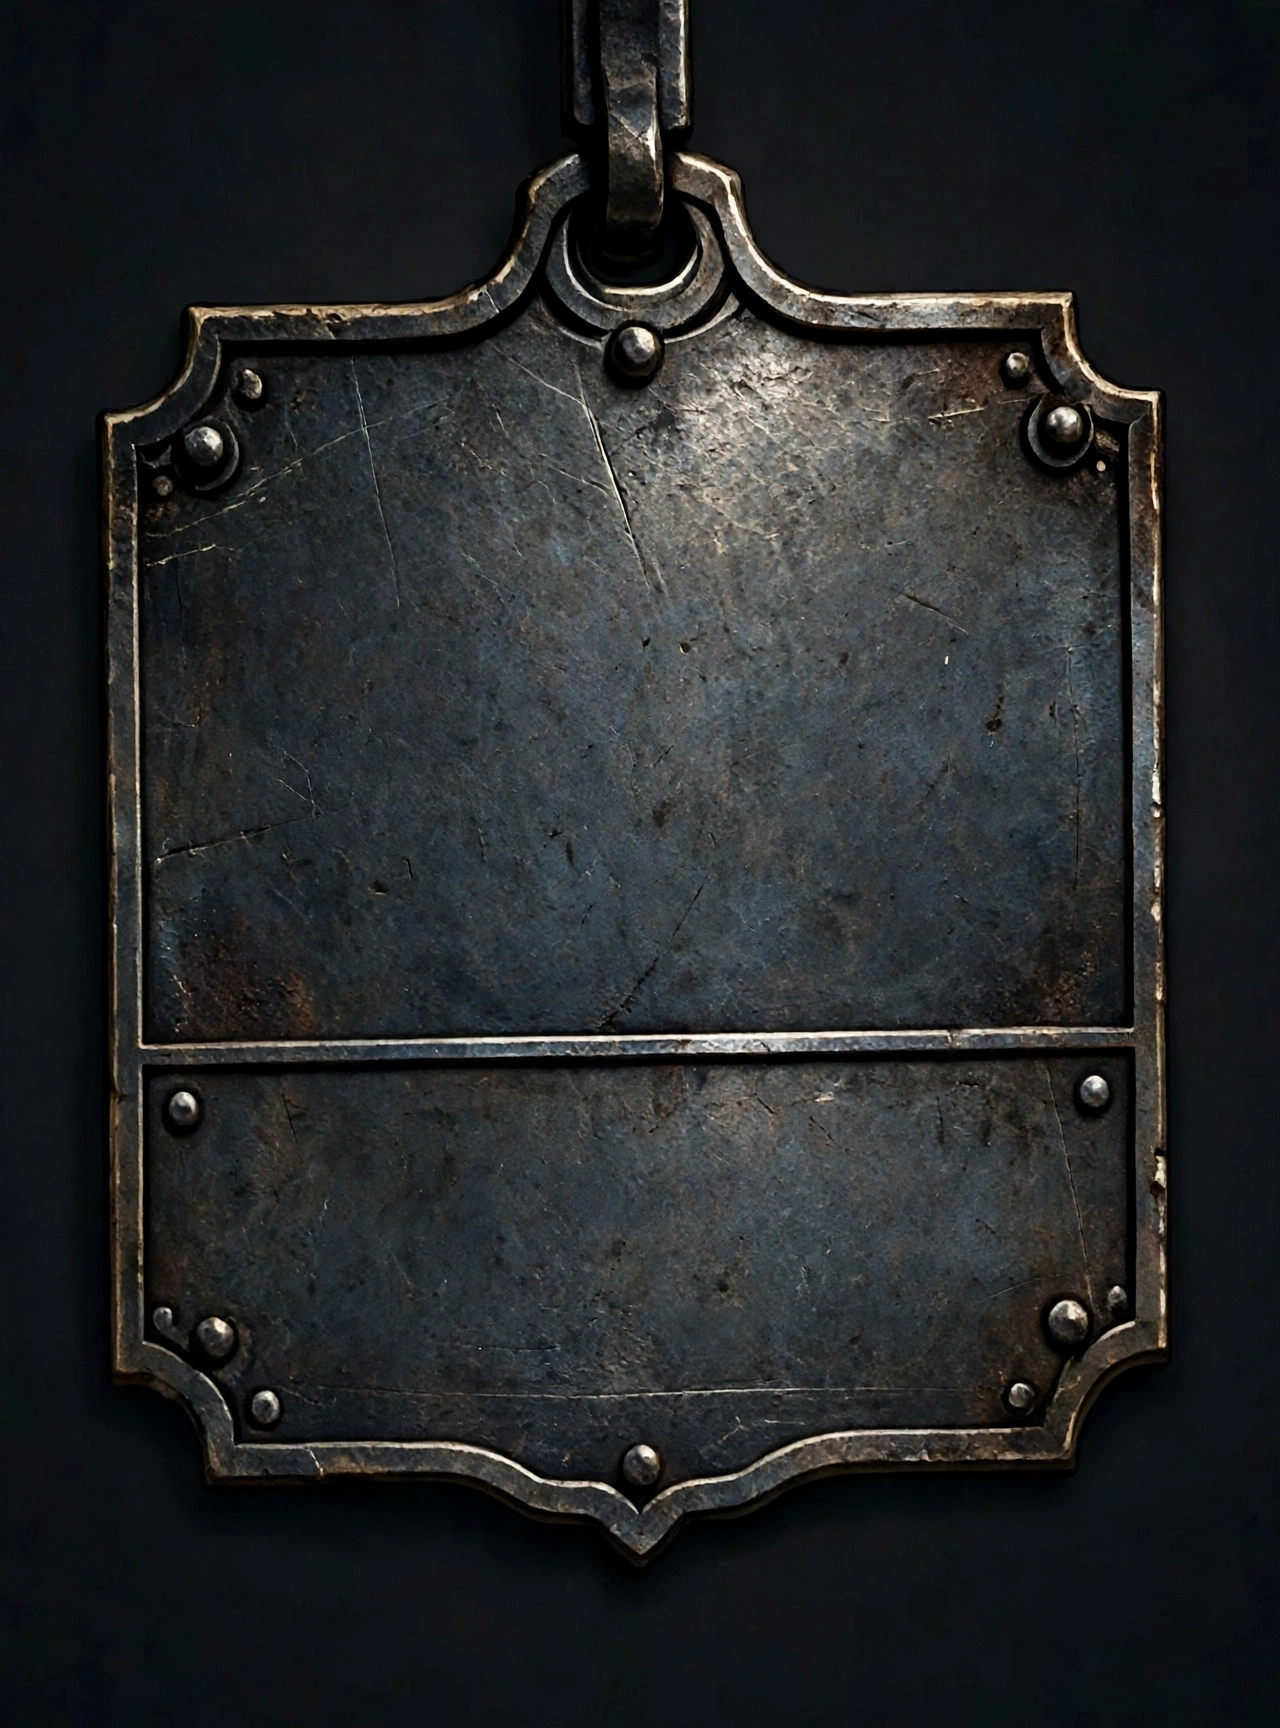
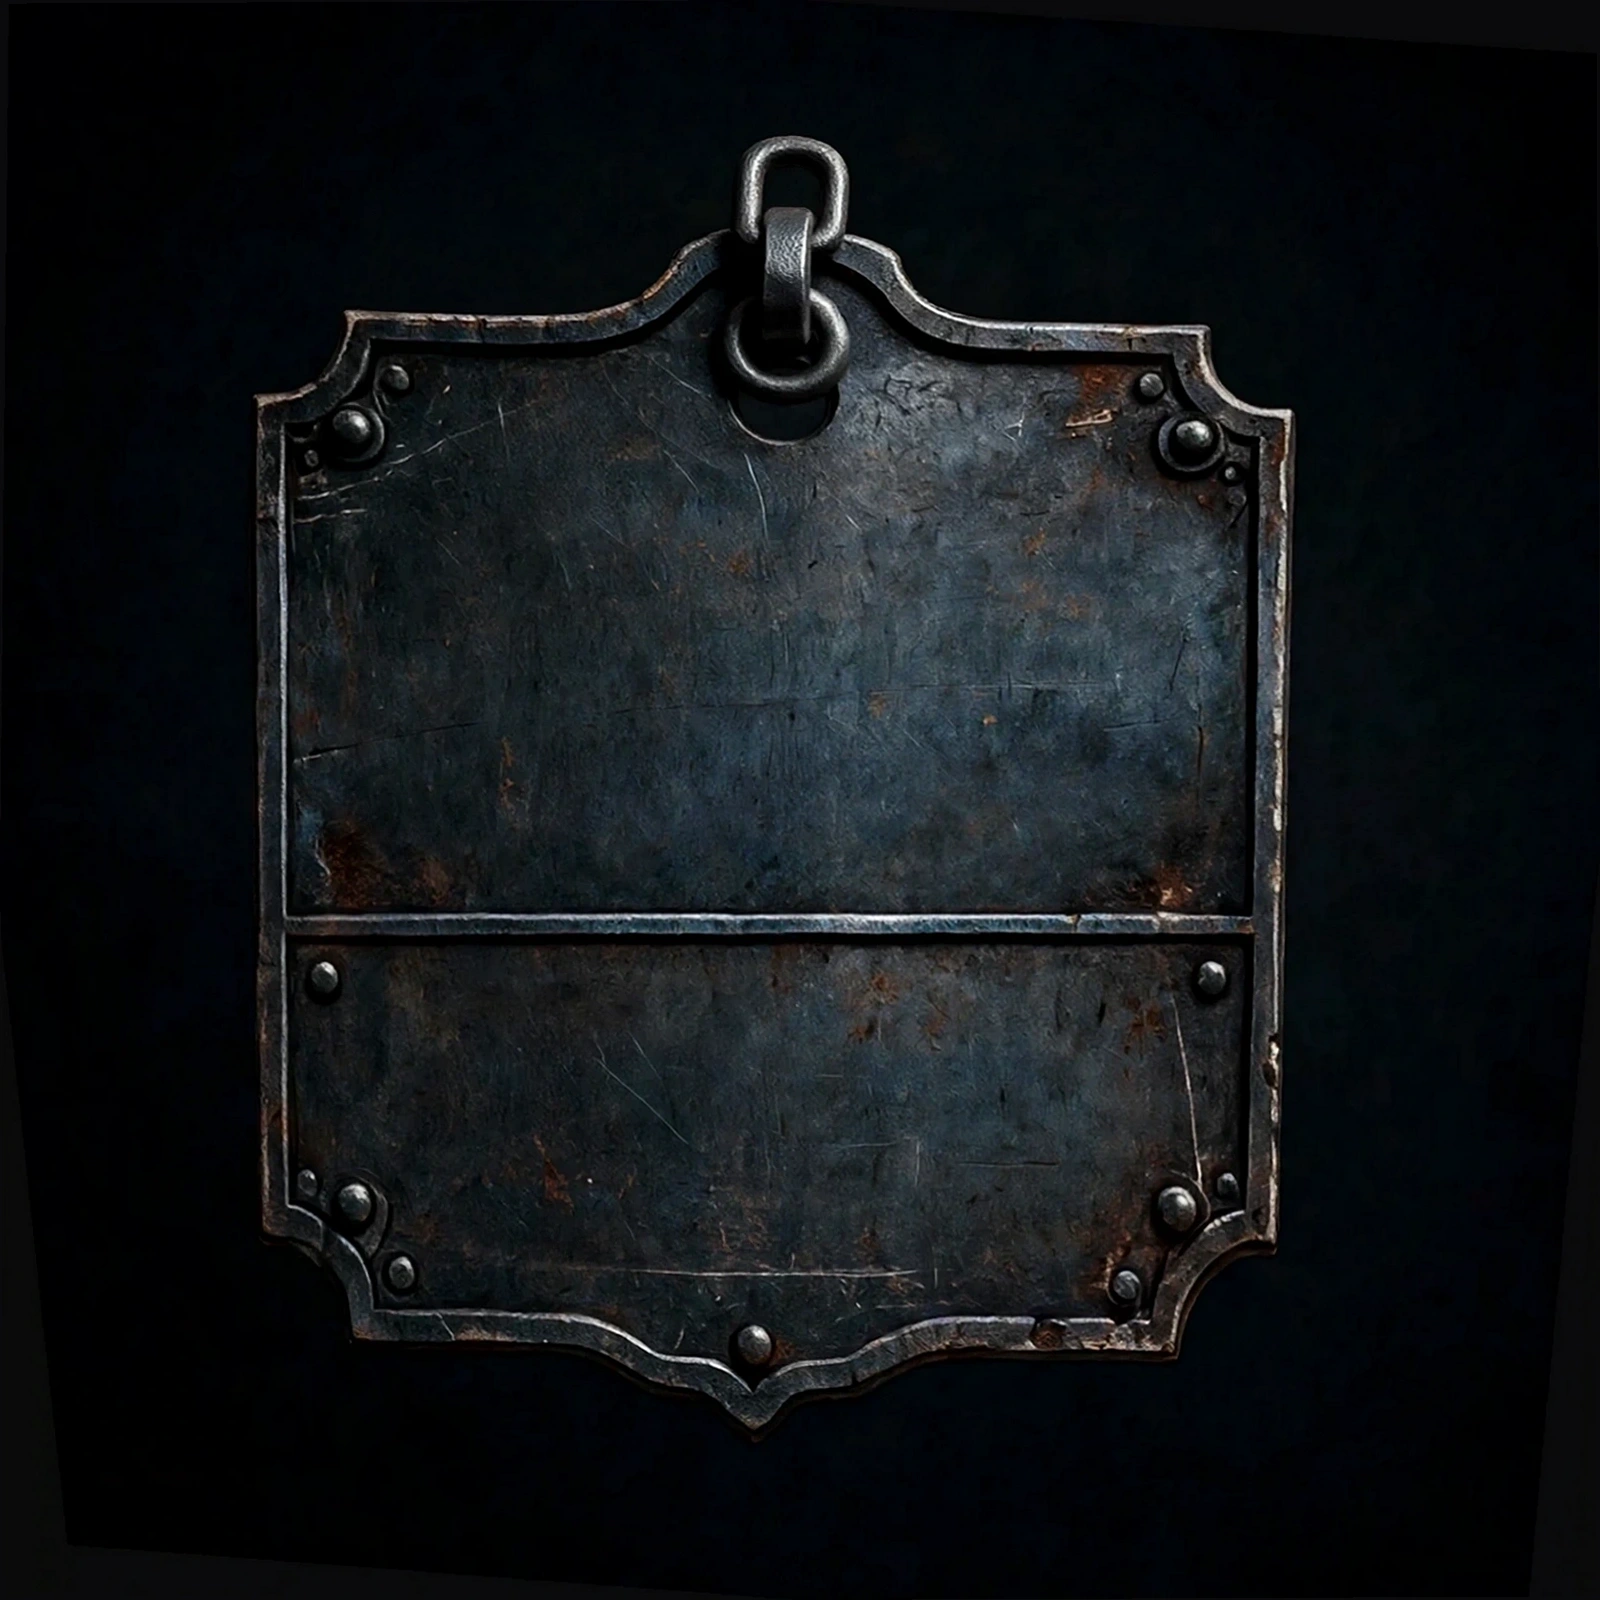
登録: ブランク鉄板 第2版を承認済みに差し替え（本人が正と確定）

diff --git a/truth/prompts/blank-plate.md b/truth/prompts/blank-plate.md
@@ -1,39 +1,43 @@
 # ブランク鉄板（空白の鉄板）
 
-- 状態: 承認済み（2026-11-13 本人OK）
-- 承認画像: `../approved/blank-plate.webp`
-- 位置づけ: カード面の鉄板の新しい原本。数字・矢印・札束はこの上に部品として載せ、カード上では鉄板ごと約-2度に傾ける（数字・札束も一緒に傾き、矢印だけは軸平行に置く）
-- 経緯: aged v2 原画の鉄板がデザインの正（`plate.md`）。ただし原画から画素を消して空白化する方法は浮き彫りの陰影が残り成立しなかったため、要件をもとに最初から空白で生成したこの絵を原本とした
+- 状態: 承認済み（2026-11-14 本人OK「これを正とする」。第2版。第1版は差し替え）
+- 承認画像: `../approved/blank-plate.webp`（1600×1600）
+- 位置づけ: カード面の鉄板の原本。数字・矢印・札束はこの上に部品として載せる。**素材は鎖・接続パーツ・鉄板とも真っ直ぐに描いたものが正**で、カードへの配置時に吊り点（カード画面外の上）を中心に全体を右肩上がりに傾ける（角度の目安は約5〜6°）。
+
+## 構造（2026-11-14 本人の説明で確定）
+
+- 吊り点はカードの画面外（上）にある。そこから鎖が降りる。
+- 鉄板の吊り穴は、**上部センターの突起部分**に開く。穴は高く、**鉄板の上縁と穴の縁が隣り合う**位置。
+- 接続パーツ（シャックルと輪）は、その穴に配置され、鎖と鉄板をつなぐ。接続パーツと鎖のデザインは本人がOK済み。
+
+## 実測（承認画像、1600×1600）
+
+- 鉄板の外接: x 約284〜1293、y 約135（突起上端）〜1428（下端の尖り）。幅は完成カード幅の約3分の1が目安（合成時）。
+- 仕切り線: **外接範囲の上端から59%**（上段59%・下段41%。本人が基準拡大画像から実測して指定）。内幅の約96%を横断する金属の段差。素材が水平なため仕切り線も水平（実測 0.005°）。
+- 左右の辺: 左 +1.2°・右 −1.1°の左右対称のわずかなすぼまり。仕切り線との角度は 88.8°／91.1°で90°を挟んで対称。
+- 穴: 上部センターの突起の中。輪の中心は鉄板幅の約50%。
+- 面の色: 濃い炭色の鍛造鉄。周縁に使い込まれた金属の擦れ、面内に傷と錆びの斑点は中程度。
 
 ## 再現プロンプト
 
 ```
-Use the reference image only as the design reference for the hanging iron sign
-plate. Generate that same ornate hanging iron plate, completely EMPTY, as a
-standalone game asset on a plain very dark charcoal background, straight front
-view, perfectly axis-aligned, no tilt and no perspective. The plate is dark
-blue-grey-black forged iron, width-to-height ratio about 100:135, with a
-decorative hanging-sign silhouette: a suspension post and ring at the top
-center that continue out of the top edge of the image, a semicircular tab under
-the ring, small shoulder bumps, ear-like lower corners, and a bottom edge
-formed by two shallow reverse arches with a small central point. A raised
-forged rim with an inner incised groove follows the silhouette. About eleven
-hemispherical rivets of slightly irregular size and spacing sit along the rim.
-One straight horizontal divider groove crosses the plate at about 55 percent of
-its height, dividing it into an upper field and a lower field. Both fields are
-completely blank dark hammered iron: brighter toward the center, darker toward
-the edges, fine grain, scratches, faint stains, and a soft drop shadow toward
-the lower right. Absolutely no numbers, no letters, no arrows, no icons, no
-emblems and no text anywhere on the plate. Photorealistic forged metal, moody
-warm light from the upper left.
+Generate a blank hanging iron sign plate as a standalone game asset on a plain
+very dark background, drawn perfectly straight and level, front view, no tilt.
+The plate is a decorative shield-shaped sign of dark charcoal forged iron:
+slightly tapered sides narrowing gently and symmetrically toward the bottom,
+scalloped ears at the corners, a shallow wavy bottom edge with a small central
+point, and a raised forged rim with an inner groove and irregular rivets.
+At the top center the rim rises into a small protruding tab, and a circular
+hanging hole is punched through that tab, placed high so the top edge of the
+hole sits right next to the top edge of the plate. A dark iron ring and shackle
+connector sit in the hole. The face has two completely blank fields divided by
+a raised horizontal metal step at 59 percent of the plate's full height from
+the top. Worn dark iron texture: scratches, faint rust mottling, brighter worn
+edges. No numbers, no letters, no arrows, no icons, no text anywhere.
+Photorealistic forged metal, moody light.
 ```
 
-## 承認時点の原画との差異（本人が承知のうえでOK）
+## 経緯
 
-- 仕切り線の位置: 原画は高さの約66%、この絵は約57%（上の段が狭い）。
-- フチの金属が原画より少し明るく銀色寄り。
-
-## 基準の再確認（2026-11-14 0時ごろ、本人）
-
-- aged v2 のカードが、鉄板まわりの正の基準であることを本人が再確認した。正しいのは「鉄板の形・色合い」「カードにおける配置位置」「鉄板を吊るすパーツ」「矢印」「フォントの太さ・大きさ・色合い・汚れ」。
-- つまりこのブランク鉄板の色合い（銀色寄り）は、v2 の色合いに寄せることが今後の照合対象。数字も v2 のフォント属性に合わせる。
+- 第1版（2026-11-13承認）は、吊りポストが中央・仕切り線57%等が基準と合わず、2026-11-14に作り直し。本人の「傾き比較」文書（吊り金具は左寄り・傾き5〜6°目安・盾形・幅は約3分の1）と、その後の構造訂正（吊り点は画面外／穴は上部センターの突起／鉄板の縁と穴の縁を隣り合わせる）を受けて候補を生成し、画素補正で水平化・左右対称化・仕切り線59%化を行い、本人が「これを正とする」と承認した。
+- 旧・第1版は approved/ から外した（履歴に残る）。

diff --git a/truth/approved/approvals.md b/truth/approved/approvals.md
@@ -12,7 +12,7 @@
 | ボスの信頼コイン（表） | coin-front.webp | 派生（紋章から合成） | 本人「素晴らしい」、同日の棚卸しでOK | prompts/coin-front.md |
 | 札束の山 | billstack.webp | 原本 | 本人「札束OK」 | prompts/billstack.md |
 | 札束アイコン（単束・並び1/2/5） | bill-bundle.png, bill-row-1.png, bill-row-2.png, bill-row-5.png | 派生（山のアセットから） | 単束・並びとも同日の棚卸しでOK | prompts/bill-bundle.md |
-| ブランク鉄板 | blank-plate.webp | 原本（新規生成） | 同日の棚卸しでOK（仕切り線57%・フチ銀寄りを承知のうえ） | prompts/blank-plate.md |
+| ブランク鉄板（第1版） | （第2版に差し替え済み・履歴に残る） | 原本（新規生成） | 同日の棚卸しでOK（仕切り線57%・フチ銀寄りを承知のうえ）。2026-11-14に基準不一致が判明し第2版へ差し替え | prompts/blank-plate.md（第2版の仕様） |
 | 後継者の証（指輪） | marker-ring.webp | 原本 | 第2案「いい感じ」→穴消去→鍵の向き修正→OK | prompts/marker-ring.md |
 | 効果アイコン SUIT | icon-suit.png | 派生（シートv4から切り出し） | 本人「公開以外OK」 | prompts/effect-icons-approved.md |
 | 効果アイコン DRAW 2 | icon-draw2.png | 派生（同上） | 同上 | 同上 |
@@ -71,3 +71,9 @@
 - 交代で不採用になった旧シーン原画: 0の草の多い旧原画と鳩案、2昼の横顔の旧原画（荷の大きさ修正版を含む）、5昼の太鼓橋の旧原画と橋の形だけ直した版、11昼の家スケール修正版（housefix）、11夜の旧原画、12夜の旧原画（v5）
 - 完成面48面（作業場の生成物）: 未承認。本人判定「まだ本番に耐えられない」
 - 旧ブランク鉄板（自作テクスチャ版）・画素消去版: 不採用
+
+## 登録済み（2026-11-14 第3弾）
+
+| 項目 | ファイル | 種別 | 承認の根拠 | 仕様 |
+|---|---|---|---|---|
+| ブランク鉄板（第2版） | blank-plate.webp | 原本（生成＋画素補正） | 本人「これを正とする。OK！」（水平・左右対称・穴は上部センターの突起で縁同士が隣接・仕切り線は外接の59%） | prompts/blank-plate.md |
